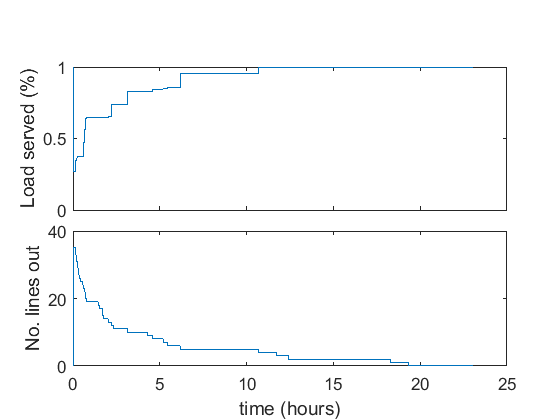
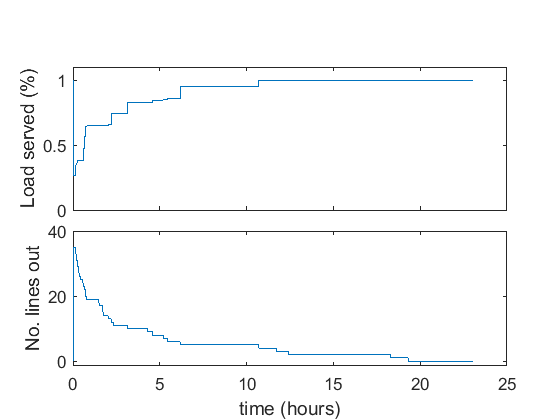
edited figures

diff --git a/CRISP/matlab/steps_plots.m b/CRISP/matlab/steps_plots.m
@@ -1,6 +1,6 @@
 % make step plot of load served and lines out over time
-data = xlsread('../results/case6ww/test2_restoration_case6ww_1.csv');
-% data = xlsread('../results/RestorationFixed_case39_9.csv');
+% data = xlsread('../results/case6ww/test2_restoration_case6ww_1.csv');
+data = xlsread('../results/RestorationFixed_case39_9.csv');
 time = data(:,1);
 linesout = data(:,4);
 loadserved = data(:,3);
@@ -18,7 +18,7 @@ set(gca, 'fontsize',13)
 set(gca,'xticklabels',[])
 p = get(gca,'position'); p(2) = 0.5;
 set(gca, 'position', p)
-ylim([0.95 1.01])
+ylim([0 1.1])
 hold off
 subplot(2,1,2)
 plot(t1,Lin)
@@ -26,5 +26,5 @@ hold on
 ylabel('No. lines out')
 xlabel('time (hours)')
 set(gca, 'fontsize',13)
-ylim([-0.1 2.1])
+ylim([-1.5 40])
 hold off
